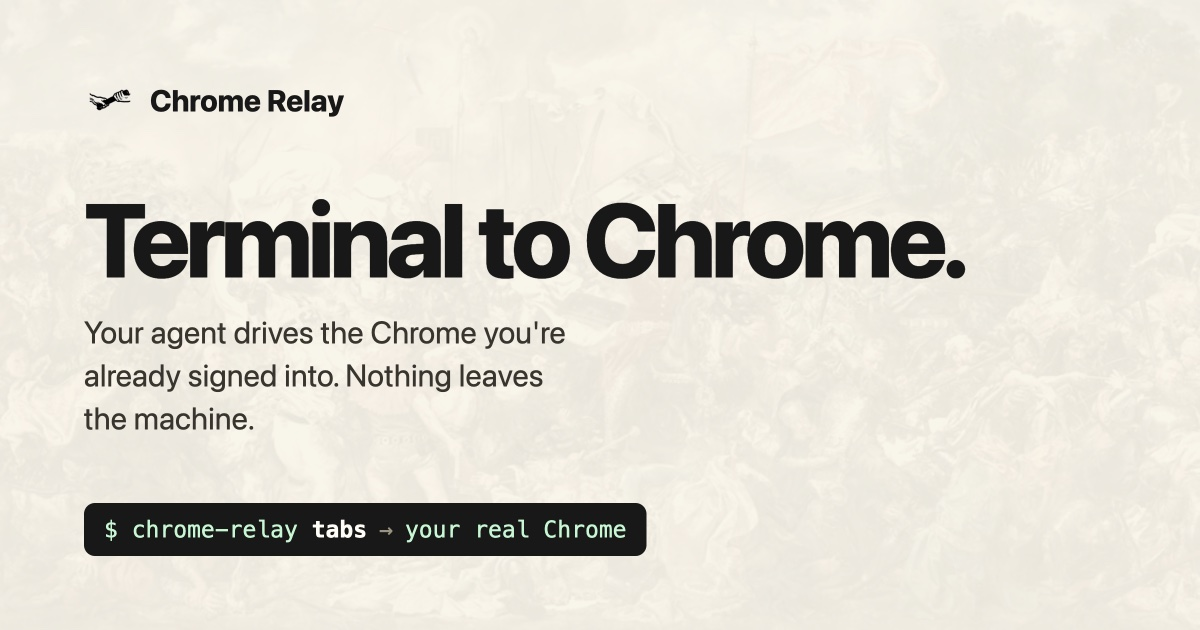
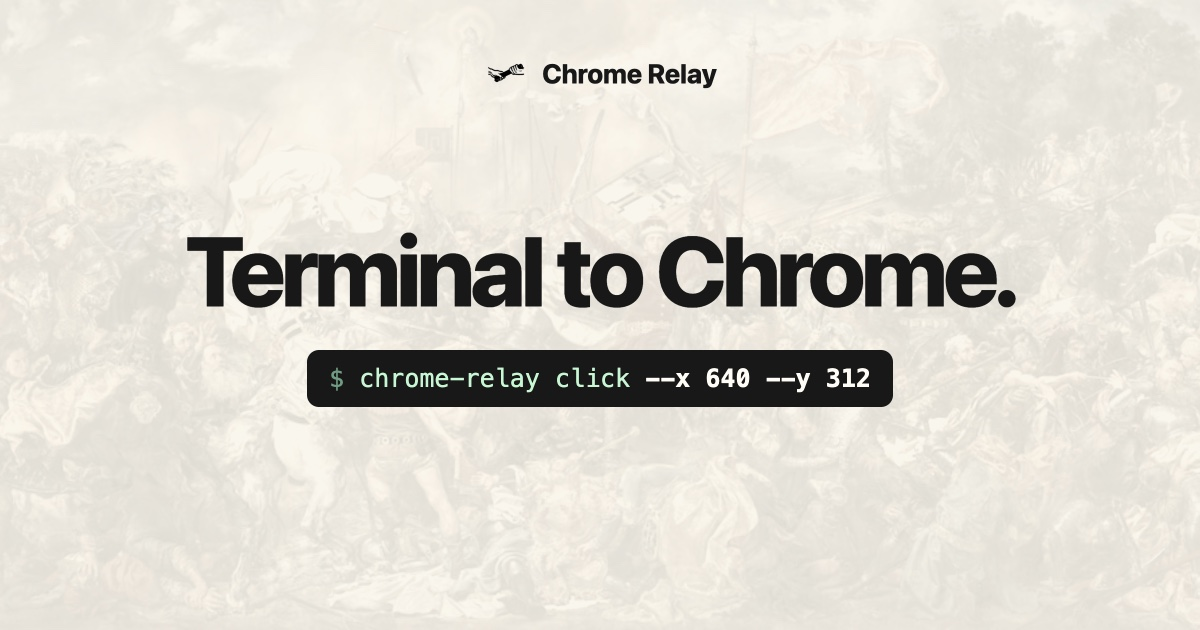
landing: OG card = wallpaper bg + "Terminal to Chrome." + chrome-relay command
Swap the og.jpg for a centered card on the landing's engraving wallpaper:
logo, "Terminal to Chrome.", and a $ chrome-relay click --x --y chip. Drop the
demo-screenshot source.

diff --git a/landing/public/og-banner.html b/landing/public/og-banner.html
@@ -12,67 +12,68 @@
         background: #f7f3e8;
         font-family: -apple-system, BlinkMacSystemFont, "Segoe UI", Inter, system-ui, sans-serif;
         color: #181818;
-        padding: 74px 84px;
       }
+      /* Same engraving wallpaper as the landing (.bg-art). */
       .bg {
         position: absolute;
         inset: 0;
-        z-index: 0;
         background: url('/bg.jpg') center / cover no-repeat;
-        opacity: 0.13;
+        opacity: 0.22;
         filter: saturate(0.25) contrast(0.4) brightness(1.7);
       }
-      .content {
-        position: relative;
+      .brand {
+        position: absolute;
+        top: 50px;
+        left: 50%;
+        transform: translateX(-50%);
+        display: flex;
+        align-items: center;
+        gap: 13px;
+        z-index: 2;
+      }
+      .brand img { width: 46px; height: 46px; border-radius: 10px; }
+      .brand span { font-size: 27px; font-weight: 750; letter-spacing: -0.01em; }
+      .center {
+        position: absolute;
+        inset: 0;
         z-index: 1;
-        height: 100%;
         display: flex;
         flex-direction: column;
-        justify-content: space-between;
+        align-items: center;
+        justify-content: center;
+        gap: 34px;
+        text-align: center;
+        padding: 0 80px;
       }
-      .brand { display: flex; align-items: center; gap: 14px; }
-      .brand img { width: 52px; height: 52px; border-radius: 11px; }
-      .brand span { font-size: 30px; font-weight: 750; letter-spacing: -0.01em; }
       h1 {
-        font-size: 104px;
-        line-height: 0.93;
+        font-size: 98px;
+        line-height: 0.95;
         font-weight: 800;
         letter-spacing: -0.045em;
       }
-      .lede {
-        margin-top: 24px;
-        font-size: 31px;
-        line-height: 1.38;
-        color: #38352f;
-        max-width: 26ch;
-      }
       .chip {
-        align-self: flex-start;
         display: inline-flex;
         align-items: center;
         background: #181818;
         color: #c8f7d4;
         font-family: ui-monospace, SFMono-Regular, Menlo, Consolas, monospace;
-        font-size: 23px;
-        padding: 13px 20px;
-        border-radius: 11px;
+        font-size: 25px;
+        padding: 14px 22px;
+        border-radius: 12px;
       }
+      .chip .dim { color: #6f9c82; }
       .chip b { color: #fffdf6; font-weight: 600; }
-      .chip .arrow { color: #9a937f; margin: 0 12px; }
     </style>
   </head>
   <body>
     <div class="bg"></div>
-    <div class="content">
-      <div class="brand">
-        <img src="/icon-128.png" alt="" />
-        <span>Chrome Relay</span>
-      </div>
-      <div>
-        <h1>Terminal to Chrome.</h1>
-        <p class="lede">Your agent drives the Chrome you're already signed into. Nothing leaves the machine.</p>
-      </div>
-      <div class="chip">$ chrome-relay&nbsp;<b>tabs</b><span class="arrow">→</span>your real Chrome</div>
+    <div class="brand">
+      <img src="/icon-128.png" alt="" />
+      <span>Chrome Relay</span>
+    </div>
+    <div class="center">
+      <h1>Terminal to Chrome.</h1>
+      <div class="chip"><span class="dim">$</span>&nbsp;chrome-relay click&nbsp;<b>--x 640 --y 312</b></div>
     </div>
   </body>
 </html>
